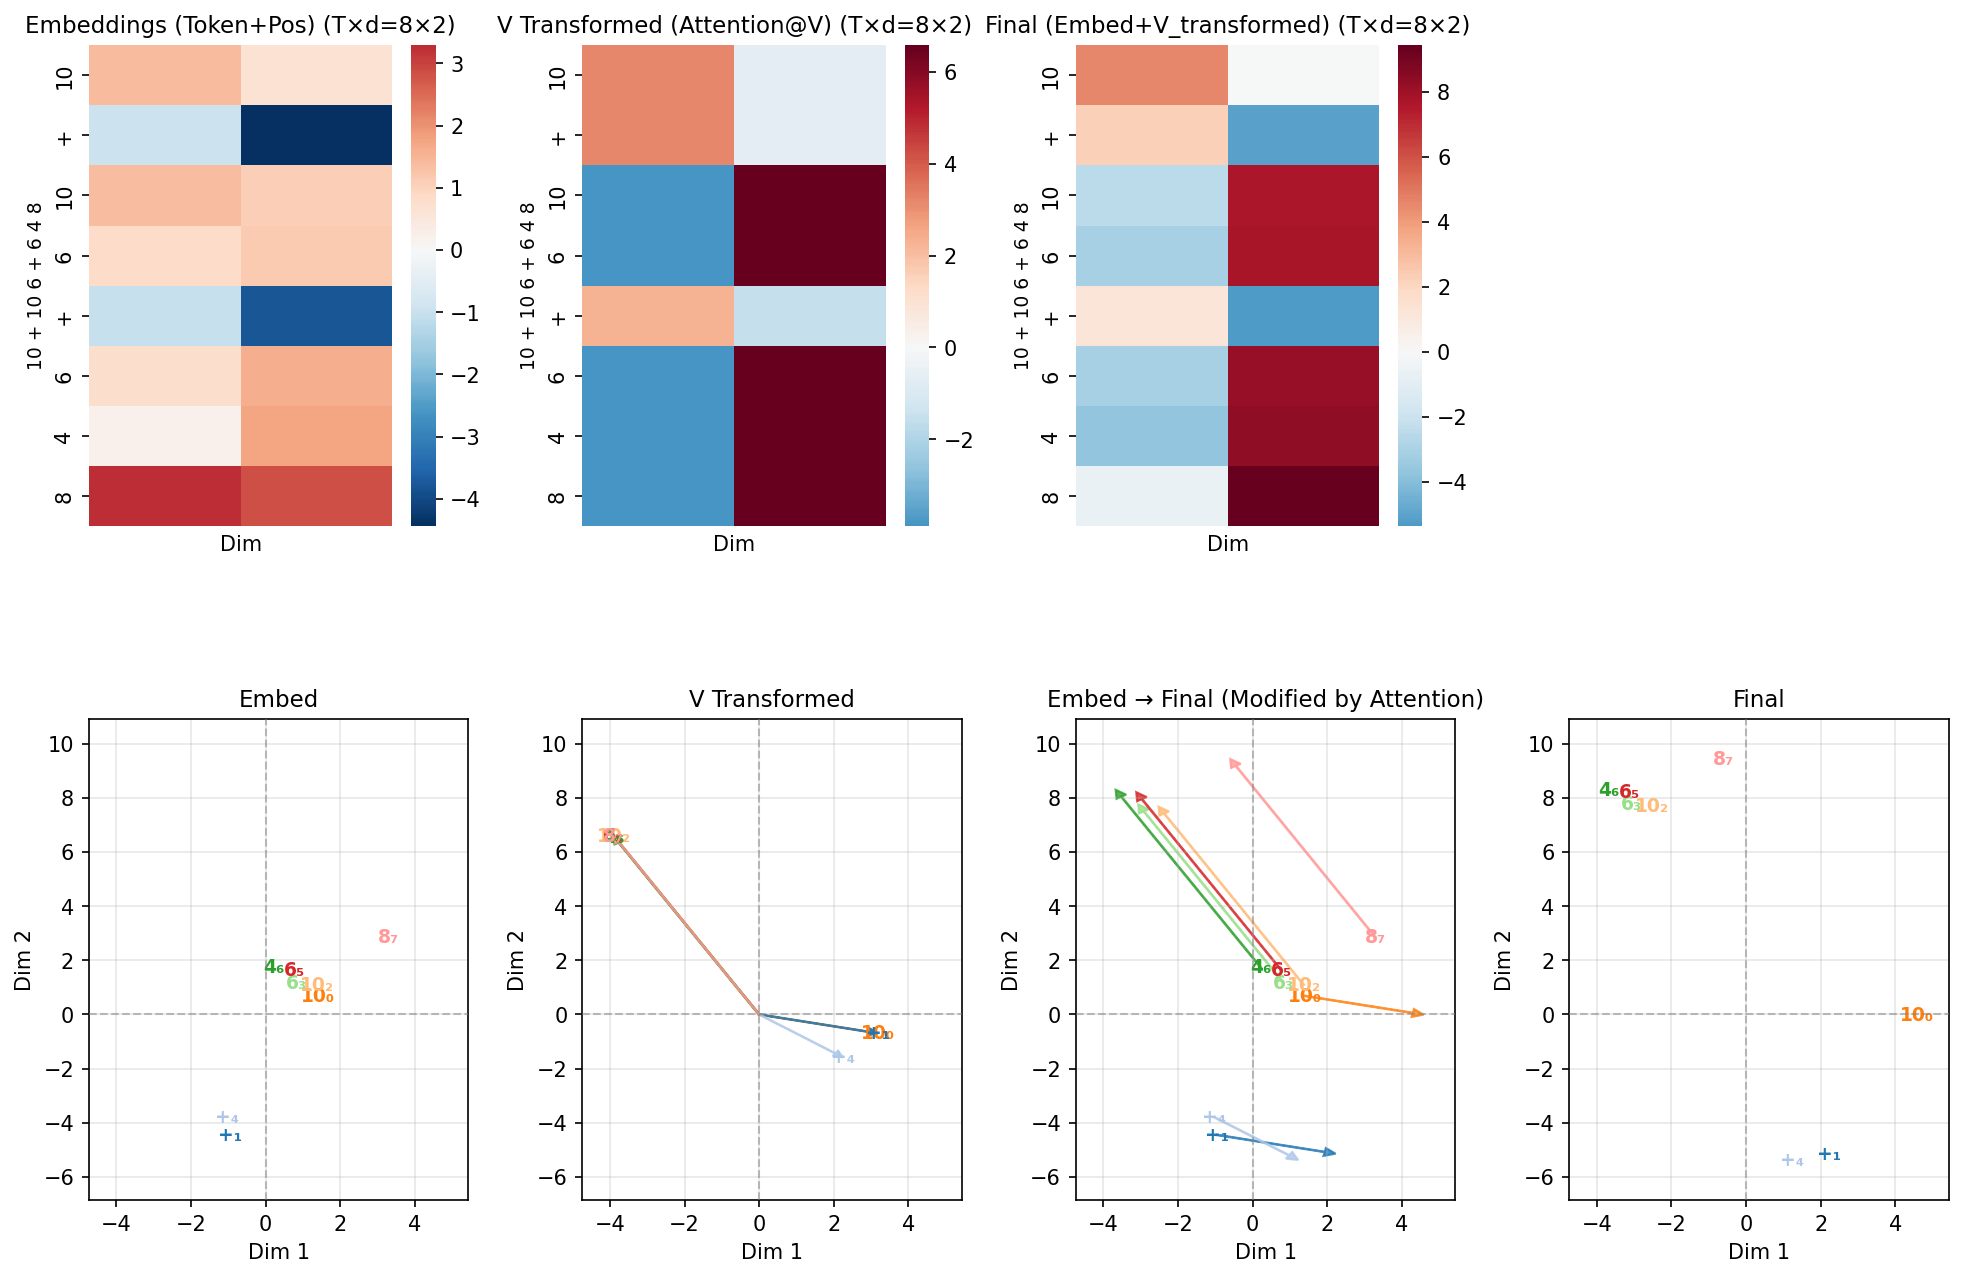
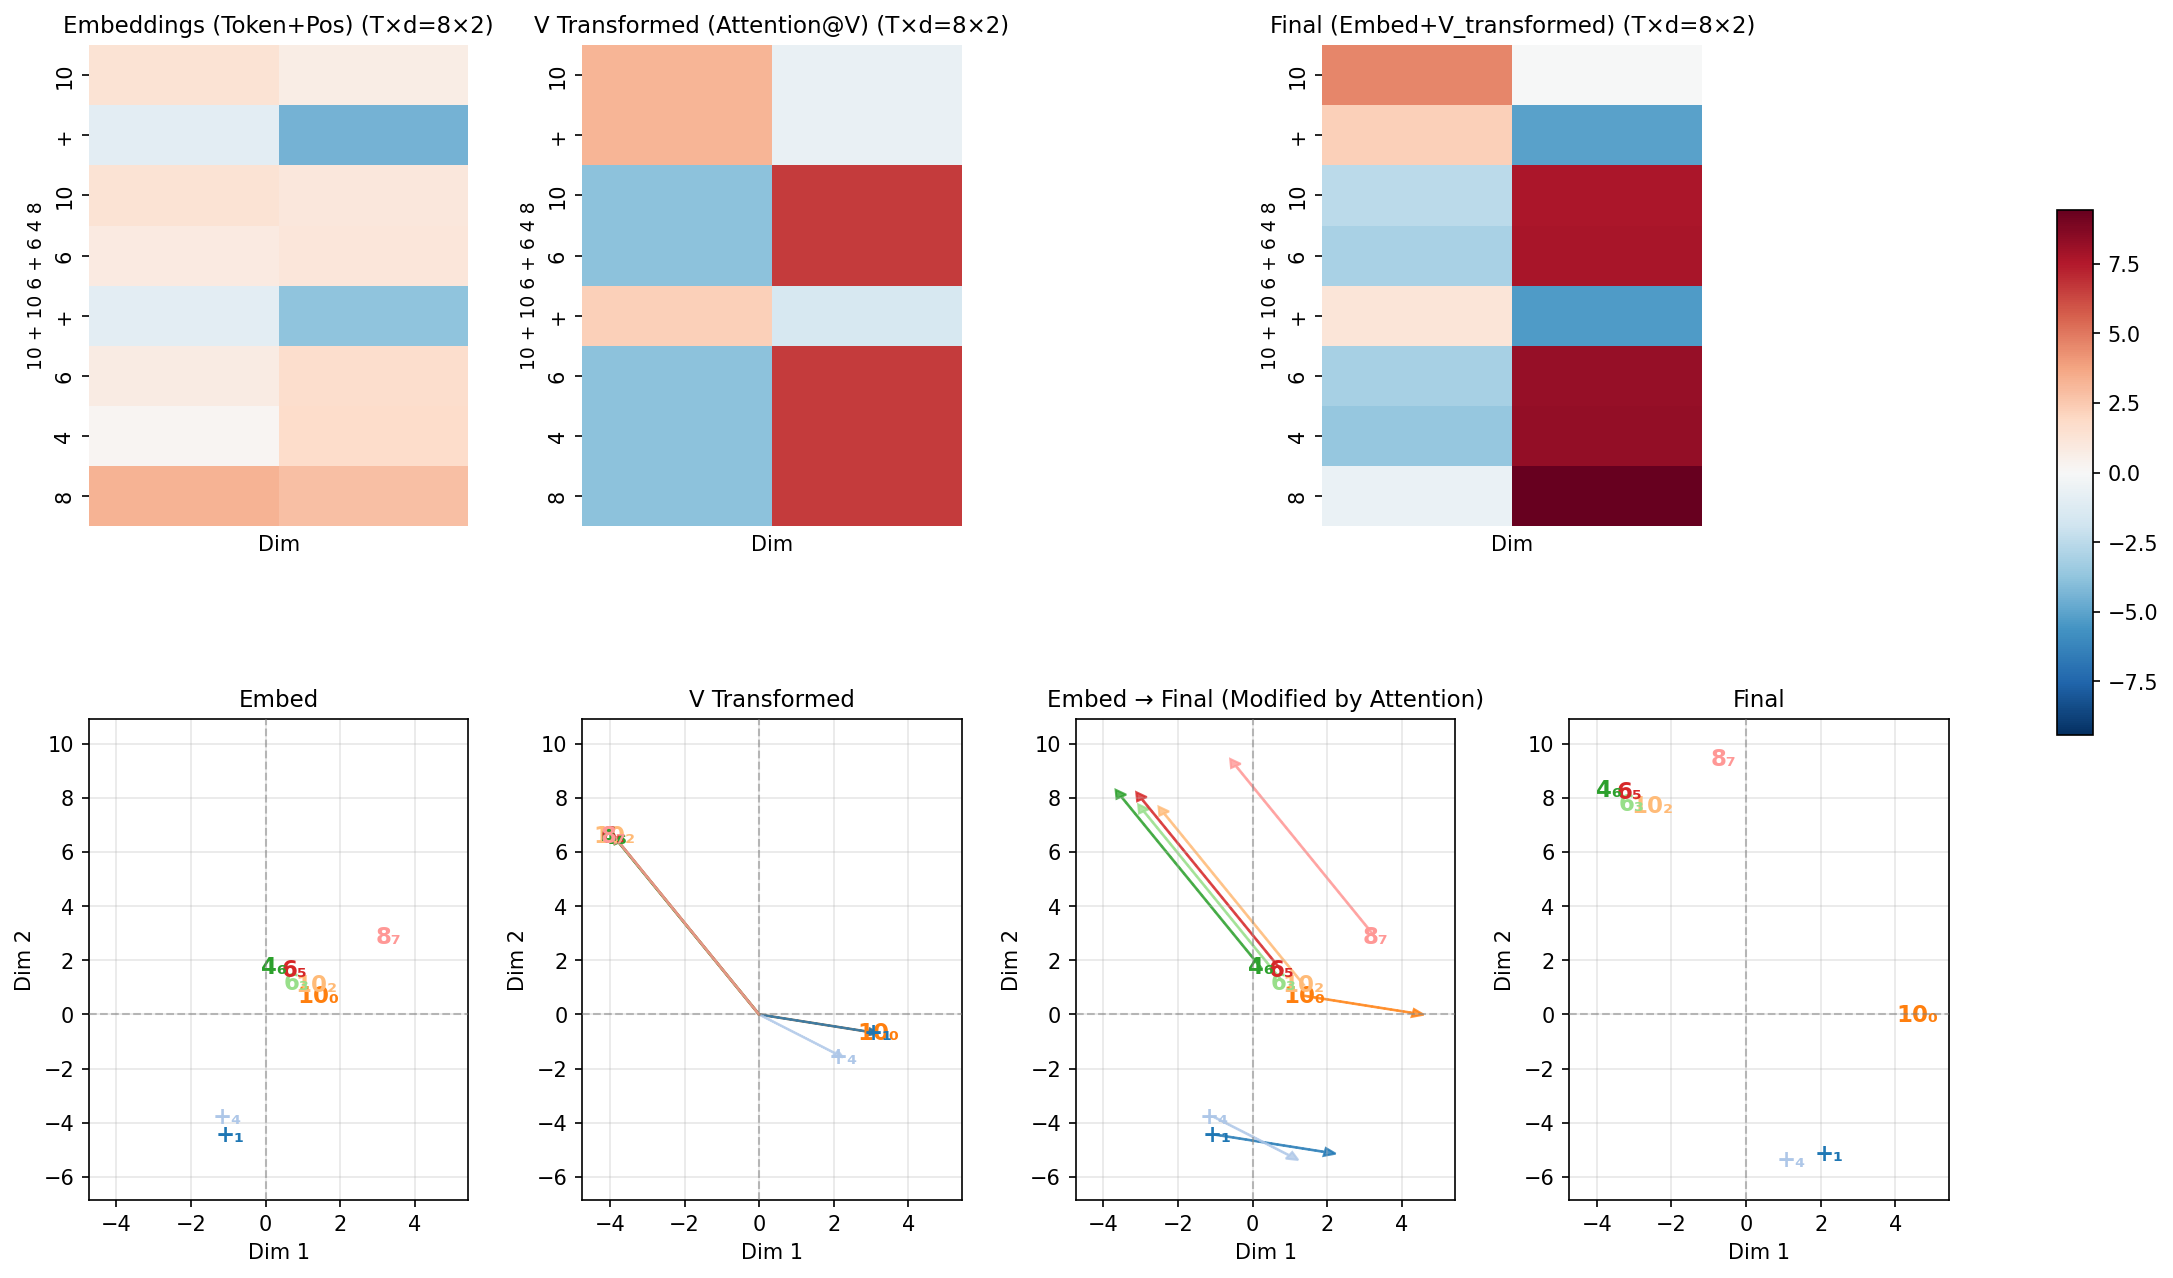
improvements

diff --git a/plotting/plots.py b/plotting/plots.py
@@ -2830,8 +2830,18 @@ def plot_residuals(model, X_list, itos, save_path=None, num_sequences=3):
     for idx, (token, pos) in enumerate(sorted(all_token_pos)):
         token_pos_to_color[(token, pos)] = colors_list[idx]
     
+    # Global vmin/vmax for heatmaps (symmetric around 0, shared colorbar)
+    all_hm_vals = []
+    for data_dict in all_data:
+        all_hm_vals.extend(data_dict['embeddings'].ravel())
+        all_hm_vals.extend(data_dict['V_transformed'].ravel())
+        all_hm_vals.extend(data_dict['Sum'].ravel())
+    hm_m = max(abs(np.min(all_hm_vals)), abs(np.max(all_hm_vals))) or 1.0
+    hm_vmin, hm_vmax = -hm_m, hm_m
+
     # First pass: collect all scatter data to calculate shared axis limits
     all_scatter_data = []
+    heatmap_axes = []
     for data_dict in all_data:
         V_transformed_2d = pca_2d(data_dict['V_transformed'])
         embeddings_2d = pca_2d(data_dict['embeddings'])  # Needed for arrows column
@@ -2874,29 +2884,41 @@ def plot_residuals(model, X_list, itos, save_path=None, num_sequences=3):
         # Embeddings heatmap (row 0)
         ax = fig.add_subplot(gs[r0_r, c_emb_hm])
         dim_str = f"(T×d={T}×{embeddings.shape[1]})"
-        sns.heatmap(embeddings, cmap="RdBu_r", center=0,
-                   xticklabels=False, yticklabels=tokens, cbar=True, ax=ax)
+        sns.heatmap(embeddings, cmap="RdBu_r", center=0, vmin=hm_vmin, vmax=hm_vmax,
+                   xticklabels=False, yticklabels=tokens, cbar=False, ax=ax)
+        heatmap_axes.append(ax)
         ax.set_xlabel("Dim", fontsize=10)
         ax.set_ylabel(seq_str if use_two_rows_r else f"Seq {seq_idx+1}\n{seq_str}\n", fontsize=9)
         ax.set_title(f"Embeddings (Token+Pos) {dim_str}", fontsize=11)
-        
+        if use_two_rows_r:
+            ref_hm_pos = ax.get_position()
         # V Transformed heatmap
         ax = fig.add_subplot(gs[r0_r, c_v_hm])
         dim_str = f"(T×d={T}×{V_transformed.shape[1]})"
-        sns.heatmap(V_transformed, cmap="RdBu_r", center=0, 
-                   xticklabels=False, yticklabels=tokens, cbar=True, ax=ax)
+        sns.heatmap(V_transformed, cmap="RdBu_r", center=0, vmin=hm_vmin, vmax=hm_vmax,
+                   xticklabels=False, yticklabels=tokens, cbar=False, ax=ax)
+        heatmap_axes.append(ax)
         ax.set_xlabel("Dim", fontsize=10)
         ax.set_ylabel(seq_str if use_two_rows_r else f"Seq {seq_idx+1}\n{seq_str}\n", fontsize=9)
         ax.set_title(f"V Transformed (Attention@V) {dim_str}", fontsize=11)
         
-        # Final heatmap (col 2, row 0 when single seq)
-        ax = fig.add_subplot(gs[r0_r, c_final_hm] if use_two_rows_r else gs[r0_r, c_sum_hm])
+        # Final heatmap (col 2, row 0 when single seq) — same size as other heatmaps, centered between cols 2 and 3
+        if use_two_rows_r:
+            ax = fig.add_subplot(gs[r0_r, 2:4])
+        else:
+            ax = fig.add_subplot(gs[r0_r, c_sum_hm])
         dim_str = f"(T×d={T}×{Sum.shape[1]})"
-        sns.heatmap(Sum, cmap="RdBu_r", center=0,
-                   xticklabels=False, yticklabels=tokens, cbar=True, ax=ax)
+        sns.heatmap(Sum, cmap="RdBu_r", center=0, vmin=hm_vmin, vmax=hm_vmax,
+                   xticklabels=False, yticklabels=tokens, cbar=False, ax=ax)
+        heatmap_axes.append(ax)
         ax.set_xlabel("Dim", fontsize=10)
         ax.set_ylabel(seq_str if use_two_rows_r else f"Seq {seq_idx+1}\n{seq_str}\n", fontsize=9)
         ax.set_title(f"Final (Embed+V_transformed) {dim_str}", fontsize=11)
+        if use_two_rows_r:
+            # Same size as Embed heatmap, centered between cols 2 and 3
+            pos = ax.get_position()
+            center_x = pos.x0 + pos.width / 2
+            ax.set_position([center_x - ref_hm_pos.width / 2, ref_hm_pos.y0, ref_hm_pos.width, ref_hm_pos.height])
         
         # Embeddings scatter (row 1, under Embed heatmap)
         ax = fig.add_subplot(gs[r1_r, c_emb_sc])
@@ -2907,7 +2929,7 @@ def plot_residuals(model, X_list, itos, save_path=None, num_sequences=3):
         for i, (token, pos) in enumerate(zip(tokens, range(len(tokens)))):
             color = token_pos_to_color[(token, pos)]
             ax.text(embeddings_2d[i, 0], embeddings_2d[i, 1], _token_pos_label(token, pos),
-                   fontsize=9, fontweight='bold', ha='center', va='center', color=color)
+                   fontsize=11, fontweight='bold', ha='center', va='center', color=color)
         ax.set_xlim(xlim_shared)
         ax.set_ylim(ylim_shared)
         used_pca = embeddings.shape[1] > 2
@@ -2936,7 +2958,7 @@ def plot_residuals(model, X_list, itos, save_path=None, num_sequences=3):
             head = max(0.12, min(0.25, arr_len * 0.12))
             ax.arrow(0, 0, x, y, head_width=head, head_length=head, fc=color, ec=color, alpha=0.8, length_includes_head=True, width=0.015, zorder=2)
             ax.text(x, y, _token_pos_label(token, pos),
-                   fontsize=9, fontweight='bold', ha='center', va='center', color=color, zorder=3)
+                   fontsize=11, fontweight='bold', ha='center', va='center', color=color, zorder=3)
         ax.set_xlim(xlim_shared)
         ax.set_ylim(ylim_shared)
         used_pca = V_transformed.shape[1] > 2
@@ -2972,7 +2994,7 @@ def plot_residuals(model, X_list, itos, save_path=None, num_sequences=3):
                     head_width=head_size, head_length=head_size, fc=color, ec=color, alpha=0.8, length_includes_head=True, width=0.02)
             # Annotate only at beginning (embeddings point)
             ax.text(embeddings_2d[i, 0], embeddings_2d[i, 1], _token_pos_label(token, pos),
-                   fontsize=9, fontweight='bold', ha='center', va='center', color=color)
+                   fontsize=11, fontweight='bold', ha='center', va='center', color=color)
         ax.set_xlim(xlim_shared)
         ax.set_ylim(ylim_shared)
         used_pca = embeddings.shape[1] > 2
@@ -2996,7 +3018,7 @@ def plot_residuals(model, X_list, itos, save_path=None, num_sequences=3):
         for i, (token, pos) in enumerate(zip(tokens, range(len(tokens)))):
             color = token_pos_to_color[(token, pos)]
             ax.text(Final_2d[i, 0], Final_2d[i, 1], _token_pos_label(token, pos),
-                   fontsize=9, fontweight='bold', ha='center', va='center', color=color)
+                   fontsize=11, fontweight='bold', ha='center', va='center', color=color)
         ax.set_xlim(xlim_shared)
         ax.set_ylim(ylim_shared)
         used_pca = Sum.shape[1] > 2
@@ -3011,7 +3033,12 @@ def plot_residuals(model, X_list, itos, save_path=None, num_sequences=3):
         ax.set_title(f"Final{title_suffix}", fontsize=11)
         ax.grid(True, alpha=0.3)
     
-    plt.tight_layout(rect=[0, 0, 1, 0.98])
+    plt.tight_layout(rect=[0, 0, 0.94, 0.98])
+    # Single shared colorbar in right margin (after tight_layout so heatmaps stay full size)
+    if heatmap_axes and use_two_rows_r:
+        mappable = heatmap_axes[0].collections[0]
+        ax_cbar = fig.add_axes([0.945, 0.42, 0.015, 0.35])
+        fig.colorbar(mappable, cax=ax_cbar)
     if save_path:
         plt.savefig(save_path, bbox_inches='tight', dpi=150)
         plt.close()
@@ -4726,8 +4753,8 @@ def plot_final_on_output_heatmap_grid(
         return
     seq = sequence[:block_size]
     T = len(seq)
-    # (token, position) -> color, same scheme as residuals plot (tab20)
-    token_positions = [(seq[i], i) for i in range(T)]
+    # (token_str, position) -> color, same scheme as residuals plot (tab20, sorted by (token_str, pos))
+    token_positions = [(itos[seq[i]], i) for i in range(T)]
     unique_tp = sorted(set(token_positions))
     cmap = cm.get_cmap('tab20')
     colors_list = [cmap(i % 20) for i in range(len(unique_tp))]
@@ -4783,8 +4810,8 @@ def plot_final_on_output_heatmap_grid(
         for i in range(T):
             lbl = _token_pos_label(itos[seq[i]], i)
             px, py = final_x[i, 0], final_x[i, 1]
-            color = token_pos_to_color[(seq[i], i)]
-            ax.text(px, py, lbl, fontsize=9, fontweight='bold', ha='center', va='center', color=color, zorder=5,
+            color = token_pos_to_color[(itos[seq[i]], i)]
+            ax.text(px, py, lbl, fontsize=11, fontweight='bold', ha='center', va='center', color=color, zorder=5,
                     path_effects=[pe.withStroke(linewidth=0.8, foreground='black')])
         ax.set_xlim(x_min, x_max)
         ax.set_ylim(y_min, y_max)
